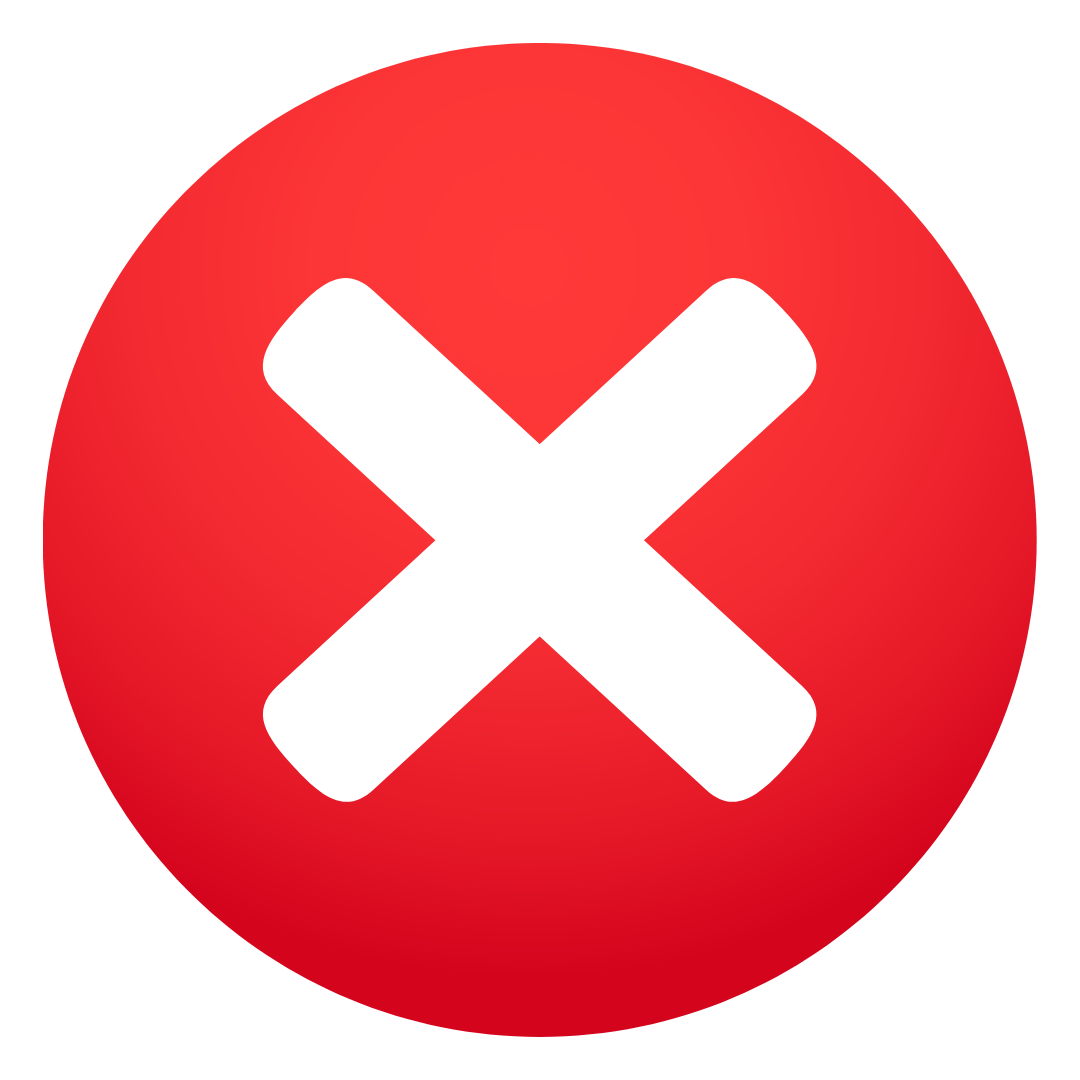
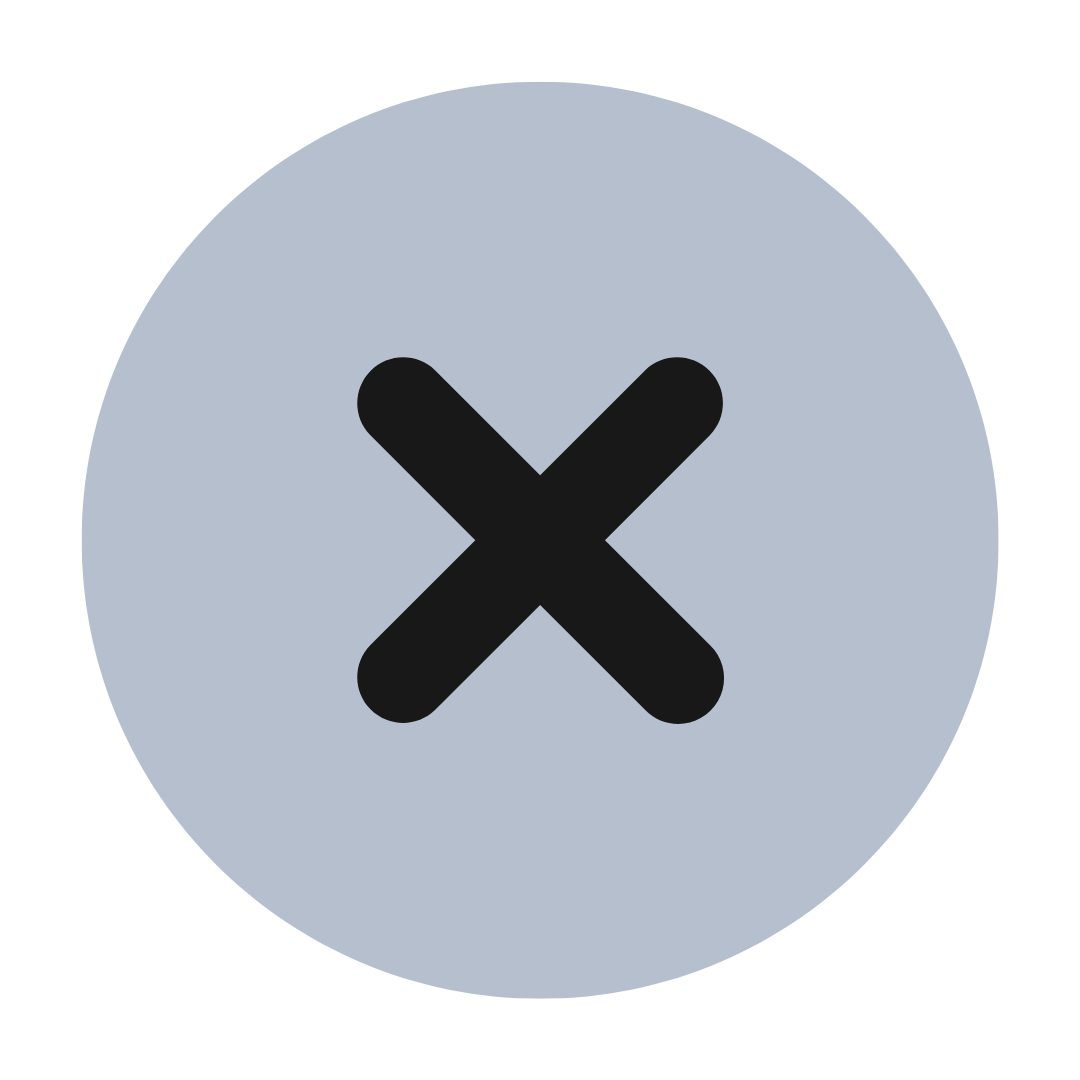
new acc buttons and changes

diff --git a/app/modals/terms&conditionsModal.tsx b/app/modals/terms&conditionsModal.tsx
@@ -1,5 +1,5 @@
 import React from 'react';
-import { Modal, View, Text, TouchableOpacity, ScrollView, StyleSheet } from 'react-native';
+import { Modal, View, Text, TouchableOpacity, ScrollView, StyleSheet, Image } from 'react-native';
 
 interface TermsModalProps {
   isOpen: boolean;
@@ -7,6 +7,8 @@ interface TermsModalProps {
 }
 
 const TermsModal: React.FC<TermsModalProps> = ({ isOpen, onClose }) => {
+  const xButton = require('@/assets/images/xButton.png');
+
   if (!isOpen) return null;
 
 
@@ -17,15 +19,15 @@ const TermsModal: React.FC<TermsModalProps> = ({ isOpen, onClose }) => {
       visible={isOpen}
       onRequestClose={onClose}
     >
-      <View style={styles.overlay}>
-        <View style={styles.modalContainer}>
-          <TouchableOpacity onPress={onClose} style={styles.closeButton}>
-            <Text style={styles.closeButtonText}>❌</Text>
+      <View style={localStyles.overlay}>
+        <View style={localStyles.modalContainer}>
+          <TouchableOpacity onPress={onClose} style={localStyles.closeButton}>
+          <Image source={xButton} style={localStyles.closeButtonImage} />
           </TouchableOpacity>
 
-          <ScrollView style={styles.content}>
-            <Text style={styles.title}>Όροι και Προϋποθέσεις</Text>
-            <Text style={styles.text}>
+          <ScrollView style={localStyles.content}>
+            <Text style={localStyles.title}>Όροι και Προϋποθέσεις</Text>
+            <Text style={localStyles.text}>
             <Text style={{ fontWeight: 'bold' }}>1. Εισαγωγή</Text>{'\n'}
               Η εφαρμογή neobill παρέχει στους χρήστες της τη δυνατότητα να παρακολουθούν λογαριασμούς κοινής ωφελείας (ΔΕΚΟ) τοπικά στις συσκευές τους. Η χρήση της εφαρμογής προϋποθέτει τη συναίνεση του χρήστη με τους παρόντες όρους.{'\n\n'}
 
@@ -49,14 +51,14 @@ const TermsModal: React.FC<TermsModalProps> = ({ isOpen, onClose }) => {
 
               <Text style={{ fontWeight: 'bold' }}>8. Ισχύουσα Νομοθεσία</Text>{'\n'}
               Η εφαρμογή neobill και οι διαδικασίες που ακολουθούνται συμμορφώνονται με τον Γενικό Κανονισμό για την Προστασία Δεδομένων (GDPR) (Κανονισμός (ΕΕ) 2016/679), ο οποίος διέπει την επεξεργασία και προστασία των προσωπικών δεδομένων στην Ευρωπαϊκή Ένωση. Σύμφωνα με αυτόν τον κανονισμό: {'\n\n'}
-                <Text style={styles.bullet}>• Οι χρήστες έχουν το δικαίωμα να διαχειρίζονται, να διαγράφουν και να ελέγχουν τα προσωπικά τους δεδομένα.</Text>{'\n'}
-                <Text style={styles.bullet}>• Η εφαρμογή εφαρμόζει την προστασία των δεδομένων εξ ορισμού και χρησιμοποιεί κρυπτογράφηση για την ασφάλεια των προσωπικών δεδομένων.</Text>{'\n'}
-                <Text style={styles.text}>
+                <Text style={localStyles.bullet}>• Οι χρήστες έχουν το δικαίωμα να διαχειρίζονται, να διαγράφουν και να ελέγχουν τα προσωπικά τους δεδομένα.</Text>{'\n'}
+                <Text style={localStyles.bullet}>• Η εφαρμογή εφαρμόζει την προστασία των δεδομένων εξ ορισμού και χρησιμοποιεί κρυπτογράφηση για την ασφάλεια των προσωπικών δεδομένων.</Text>{'\n'}
+                <Text style={localStyles.text}>
                 Επιπλέον, η εφαρμογή συμμορφώνεται με τις διατάξεις του Ελληνικού Νόμου 4624/2019, ο οποίος ενσωματώνει τον GDPR στην εθνική νομοθεσία και καθορίζει επιπλέον υποχρεώσεις για την επεξεργασία των προσωπικών δεδομένων στην Ελλάδα. Συγκεκριμένα:
               </Text>{'\n'}
-                <Text style={styles.bullet}>• Τα προσωπικά δεδομένα των χρηστών προστατεύονται, και η εφαρμογή εγγυάται ότι παραμένουν υπό τον πλήρη έλεγχο του χρήστη.</Text>{'\n\n'}
+                <Text style={localStyles.bullet}>• Τα προσωπικά δεδομένα των χρηστών προστατεύονται, και η εφαρμογή εγγυάται ότι παραμένουν υπό τον πλήρη έλεγχο του χρήστη.</Text>{'\n\n'}
             
-            <Text style={styles.text}>
+            <Text style={localStyles.text}>
                 Με τη χρήση της εφαρμογής neobill, οι χρήστες επιβεβαιώνουν την κατανόησή τους για τους παρόντες όρους και τη συμμόρφωση της εφαρμογής με τα σχετικά νομικά πλαίσια για την προστασία δεδομένων.
             </Text>{'\n\n'}
             
@@ -69,7 +71,7 @@ const TermsModal: React.FC<TermsModalProps> = ({ isOpen, onClose }) => {
   );
 };
 
-const styles = StyleSheet.create({
+const localStyles = StyleSheet.create({
   overlay: {
     flex: 1,
     backgroundColor: 'rgba(0,0,0,0.5)',
@@ -93,10 +95,12 @@ const styles = StyleSheet.create({
     right: 10,
     zIndex: 10,
   },
-  closeButtonText: {
-    fontSize: 24,
-    color: '#555',
+  closeButtonImage: {
+    width: 35, 
+    height: 35,
+    resizeMode: 'contain',
   },
+
   content: {
     marginTop: 30,
     maxHeight: 400,

diff --git a/app/styles/newaccStyles.ts b/app/styles/newaccStyles.ts
@@ -8,7 +8,7 @@ const styles = StyleSheet.create({
   menu: { 
     flexDirection: 'row', 
     justifyContent: 'space-between', 
-    marginBottom: 20, 
+    marginBottom: 15, 
     marginTop: 20 
   },
   serviceButton: { 
@@ -33,7 +33,7 @@ const styles = StyleSheet.create({
     backgroundColor: '#0072bc' 
   },
   formContainer: {
-    marginBottom: 20,
+    marginBottom: 15,
     padding: 20,
     backgroundColor: '#fff',
     borderRadius: 15,

diff --git a/app/styles/settingsStyles.ts b/app/styles/settingsStyles.ts
@@ -48,18 +48,18 @@ const styles = StyleSheet.create({
   },
   closeButton: {
     position: 'absolute',
-    top: 15,
-    right: 10,
-    width: 30,
-    height: 30,
+    top: 10,
+    right: 13,
+    width: 50,
+    height: 50 ,
     borderRadius: 15,
     alignItems: 'center',
     justifyContent: 'center',
     zIndex: 10,
   },
   closeButtonImage: {
-    width: 30,
-    height: 30,
+    width: 35,
+    height: 35,
   },
 });
 
